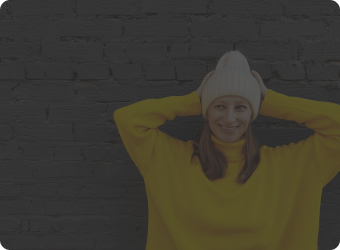
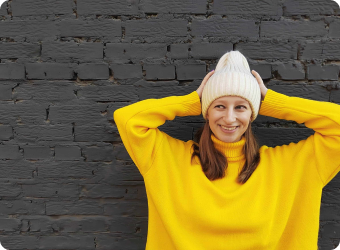
доделана десктоп версия

diff --git a/index.html b/index.html
@@ -215,10 +215,9 @@
             <ul class="work-list">
               <li>разработка и верстка сайтов с нуля;</li>
               <li>техническая поддержка готовых проектов;</li>
-              <li>наполнение веб-страниц контентом;</li>
+              <li>наполнение веб-страниц контентом, в т.ч. написание текстов;</li>
               <li>прототипирование и макетирование;</li>
               <li>кастомизация template-шаблонов;</li>
-              <li>написание текстов;</li>
               <li>верстка по готовым макетам</li>
             </ul>
 
@@ -228,8 +227,7 @@
             </div>
           <p class="work-info">оператор квеста</p>
           <ul class="work-list">
-            <li>написание сценариев;</li>
-            <li>подготовка реквизита;</li>
+            <li>написание сценариев и подготовка реквизита;</li>
             <li>проведение квестов-экскурсий</li>
           </ul>
           
@@ -249,8 +247,7 @@
             </div>
           <p class="work-info">аниматор</p>
           <ul class="work-list">
-            <li>проведение квестов;</li>
-            <li>подготовка реквизита</li>
+            <li>проведение квестов и подготовка реквизита;</li>
           </ul>
 
            <div class="name-date">
@@ -265,11 +262,23 @@
           <div class="portfolio">
             <h2 class="portfolio-title">ПОРТФОЛИО</h2>
             <div class="portfolio-cases">
-            <a href="#" class="case"><img src="assets/img/01.png" alt=""><p class="case-name">КАРТИНКА-САРДИНКА</p><p class="case-info">ПОСМОТРЕТЬ</p></a>
-            <a href="#" class="case"><img src="assets/img/02.png" alt=""><p class="case-name">ШЕЛЬПЯКОВ.РФ</p><p class="case-info">ПОСМОТРЕТЬ</p></a>
-            <a href="#" class="case"><img src="assets/img/03.png" alt=""><p class="case-name">BAY BURO</p><p class="case-info">ПОСМОТРЕТЬ</p></a>
-            <a href="#" class="case"><img src="assets/img/04.png" alt=""><p class="case-name">LISOVA SHOW</p><p class="case-info">ПОСМОТРЕТЬ</p></a>
+            <a href="#" class="case"><img src="assets/img/01.png" alt=""><p class="case-name">КАРТИНКА-САРДИНКА</p></a>
+            <a href="#" class="case"><img src="assets/img/02.png" alt=""><p class="case-name">ШЕЛЬПЯКОВ.РФ</p></a>
+            <a href="#" class="case"><img src="assets/img/03.png" alt=""><p class="case-name">BAY BURO</p></a>
+            <a href="#" class="case"><img src="assets/img/04.png" alt=""><p class="case-name">LISOVA SHOW</p></a>
             </div>
+          </div> <!-- /.portfolio -->
+          <div class="about">
+            <h2 class="about-title">О СЕБЕ</h2>
+            <p class="about-text">C отличием окончила театральный институт. Много лет работала с людьми, 
+              выступая в роли ведущей или автора сценария. Во время пандемии 2020 года 
+              приняла решение поменять сферу деятельности в сторону веб-разработки. 
+              С тех пор развиваюсь в данном направлении.</p>
+            <p class="about-text">Я не боюсь сложных задач. Если не знаю, как реализовать 
+              тот или иной функицонал, то стараюсь разобраться в вопросе или нахожу альтернативные способы решения.</p>
+            <p class="about-text">Во все свои проекты стараюсь привнести что-то новое. Всегда думаю о том, 
+              как сделать сайт еще лучше, поэтому часто предлагаю 
+              интересные идеи.</p>
           </div>
         </div> 
       </div>

diff --git a/assets/style.css b/assets/style.css
@@ -224,7 +224,7 @@ a {
 }
 
 .skills-list li {
-  padding: 5px 0;
+  padding: 7px 0;
 }
 
 .lang-list li {
@@ -376,9 +376,14 @@ a {
 
 .education-title,
 .work-title,
-.portfolio-title {
-  margin: 25px 0 20px;
+.portfolio-title,
+.about-title {
+  margin: 20px 0;
   font-size: 16px;
+}
+
+.education-title {
+  margin-top: 25px;
 }
 
 .name-date {
@@ -436,36 +441,41 @@ a {
 .case img {
   width: 100%;
   position: absolute;
+  filter: brightness(38%);
+  transition: all linear 0.3s;
 }
 
 .case-name {
   position: relative;
+  display: flex;
+  align-items: center;
+  justify-content: center;
   font-size: 13px;
+  height: 26px;
   color: #fff;
-  font-weight: 400;
-  margin: 26% auto;
+  font-weight: 600;
+  margin: 38px auto;
   text-align: center;
   opacity: 1;
-  transition: all ease-in-out 0.3s;
-}
-
-.case-info {
-  opacity: 0;
-  position: absolute;
-  top: 0;
-  font-size: 12px;
-  color: #fff;
-  font-weight: 400;
-  text-align: center;
-  transition: all ease-in-out 0.3s;
+  transition: all ease-in-out 0.35s;
 }
 
 .case:hover .case-name {
   opacity: 0;
 }
 
+.case:hover img {
+  filter: brightness(100%);
+}
+
 .case:hover .case-info {
   opacity: 1;
+}
+
+.about-text {
+  font-size: 13px;
+  font-weight: 500;
+  text-align: justify;
 }
 
 
